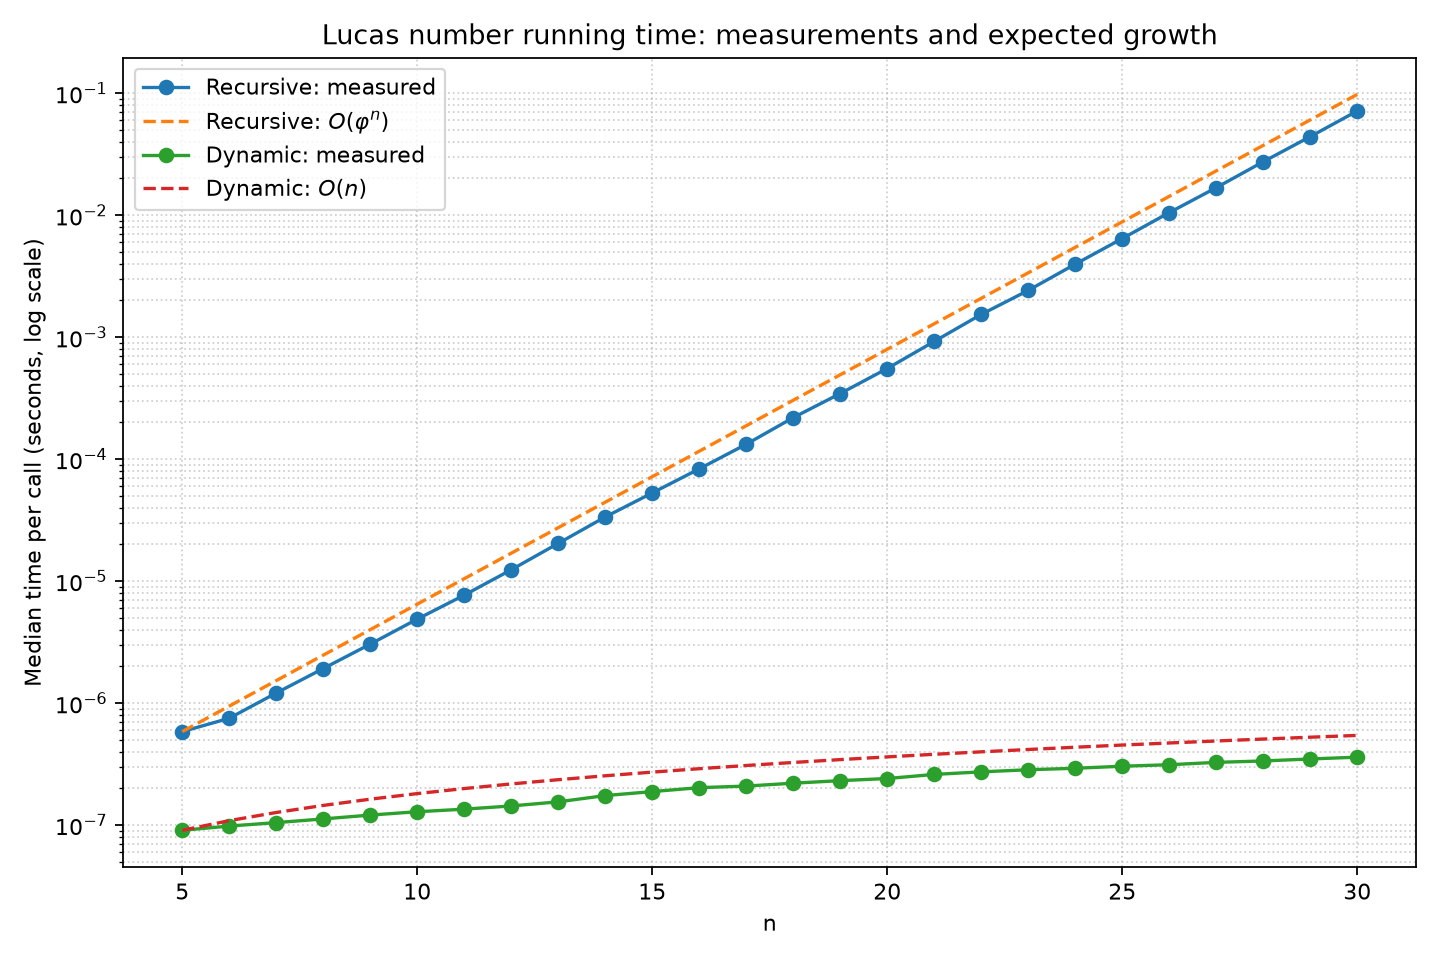
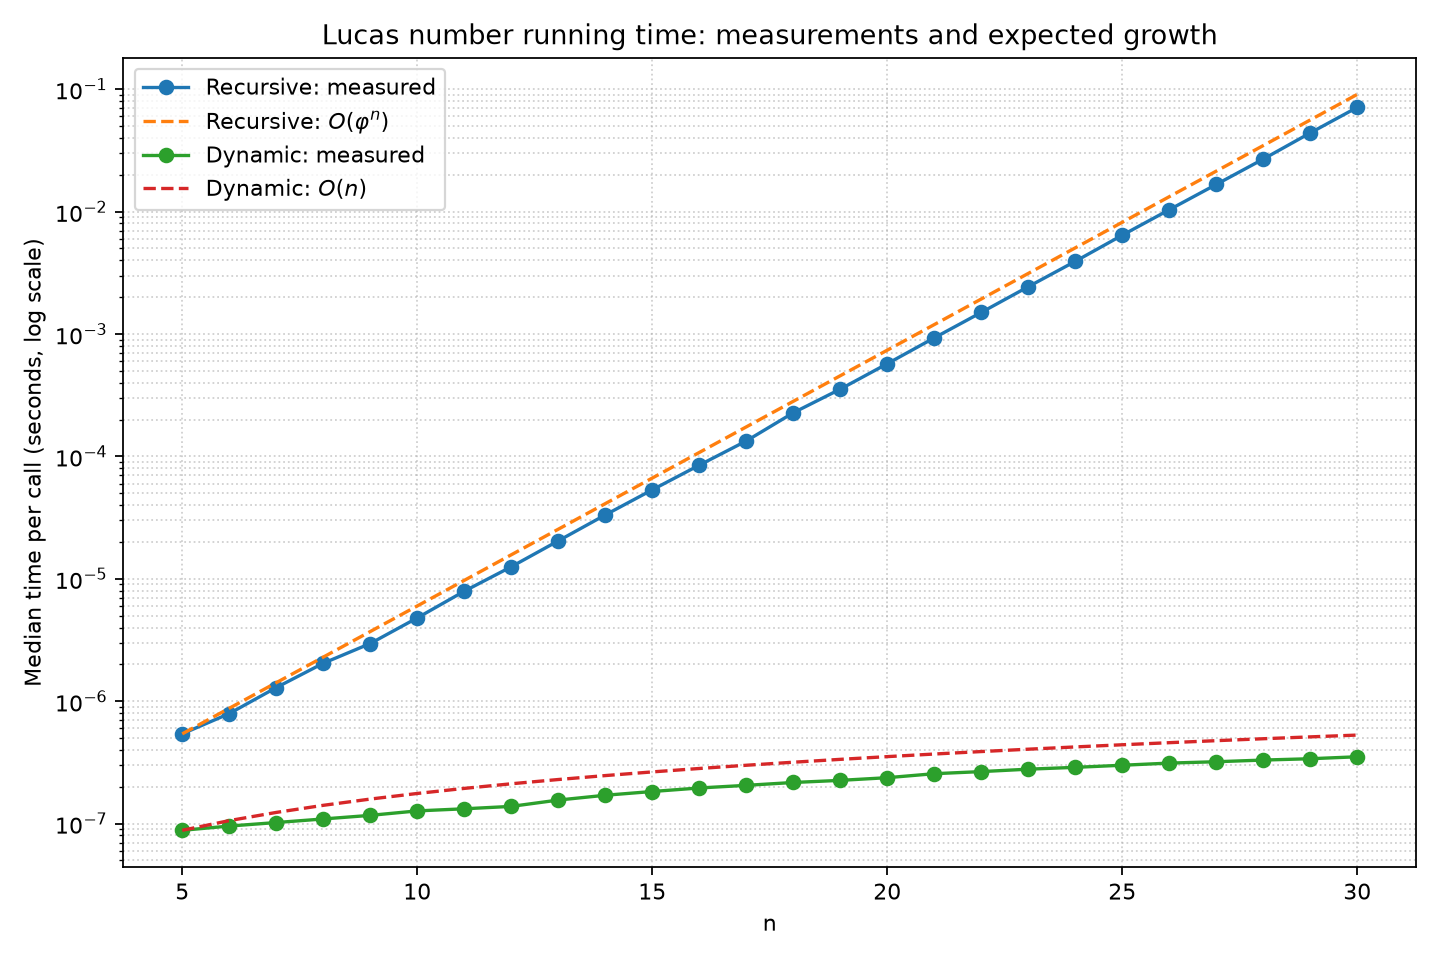
Refine Lucas benchmark script

diff --git a/work/R23-T043/bench.py b/work/R23-T043/bench.py
@@ -5,7 +5,6 @@
 import csv
 import statistics
 import sys
-from collections.abc import Callable
 from pathlib import Path
 from timeit import repeat
 
@@ -26,26 +25,23 @@ PHI = (1 + 5**0.5) / 2
 OUTPUT_DIR = Path(__file__).resolve().parent
 
 
-def median_seconds_per_call(
-    function: Callable[[int], int], n: int, number: int
-) -> float:
-    """Return the median time per call over repeated timeit measurements."""
-    samples = repeat(lambda: function(n), number=number, repeat=REPEATS)
-    return statistics.median(samples) / number
-
-
-def main() -> None:
+if __name__ == "__main__":
     rows = []
     for n in SIZES:
+        recursive_samples = repeat(
+            lambda n=n: recursive_lucas_number(n), number=1, repeat=REPEATS
+        )
+        dynamic_samples = repeat(
+            lambda n=n: dynamic_lucas_number(n),
+            number=DYNAMIC_NUMBER,
+            repeat=REPEATS,
+        )
         rows.append(
             {
                 "n": n,
-                "recursive_seconds": median_seconds_per_call(
-                    recursive_lucas_number, n, 1
-                ),
-                "dynamic_seconds": median_seconds_per_call(
-                    dynamic_lucas_number, n, DYNAMIC_NUMBER
-                ),
+                "recursive_seconds": statistics.median(recursive_samples),
+                "dynamic_seconds": statistics.median(dynamic_samples)
+                / DYNAMIC_NUMBER,
             }
         )
 
@@ -88,7 +84,3 @@ def main() -> None:
             f"n={row['n']:2}: recursive={row['recursive_seconds']:.6g}s, "
             f"dynamic={row['dynamic_seconds']:.6g}s"
         )
-
-
-if __name__ == "__main__":
-    main()
